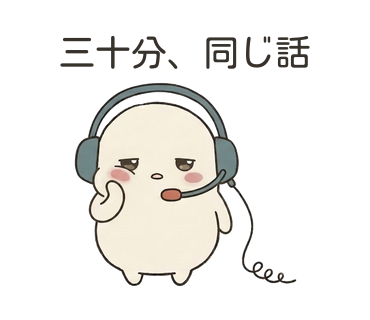
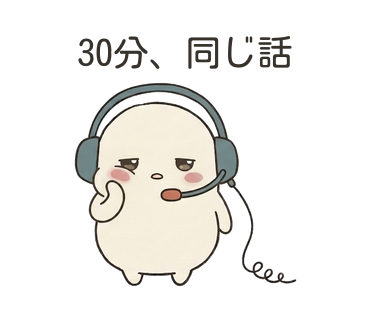
シリーズA 09番を「三十分、同じ話」から「30分、同じ話」に変更
トーク画面で一瞬で読ませる設計なので、漢数字は認識が一拍遅れる。
アラビア数字のほうが数量として即座に入る。

画像、ファイル対応表、申請一式のタグ表、キャラクター設計書のポーズ一覧を
すべて更新した。

Changed region(s): [[0.5054, 0.0938, 0.8324, 0.2188], [0.1486, 0.0938, 0.4757, 0.2188]]

diff --git a/tools/assign_tagsA.py b/tools/assign_tagsA.py
@@ -11,7 +11,7 @@ SETA=[
 ("トイレが一番静か",   ["こっそり","隠れる","しんみり","寂しい","もじもじ","ひそひそ","逃走","内緒","落ちこむ"]),
 ("上を出せ、出しました",["頼む","お願いします","任せた","承知","了解","どうぞ","はーい","断る","やれやれ"]),
 ("ガチャ切り、ありがとう",["ありがとう","感謝","助かる","安心した","どんまい","ラッキー","復活","いえいえ","どういたしまして"]),
-("三十分、同じ話",     ["面倒","だらだら","眠い","あくび","暇です","まだ？","しらける","ぽかーん","呆れる"]),
+("30分、同じ話",     ["面倒","だらだら","眠い","あくび","暇です","まだ？","しらける","ぽかーん","呆れる"]),
 ("電話、鳴らないで",   ["電話","連絡","不安","怖い","ひやひや","緊急","そわそわ","ドキドキ","心配"]),
 ("笑顔で話せ、だって", ["にっこり","てへ","えへへ","照れる","必死","一生懸命","大変","難しい","プレッシャー"]),
 ("切った瞬間また鳴る", ["がーん","あちゃー","ちーん","げっ","！？","衝撃","オーマイガー","ピンチ","早く"]),

diff --git a/gen_setA.py b/gen_setA.py
@@ -38,7 +38,7 @@ STICKERS = [
                             T("出しました", 36, gap=2)], "07.png")),
  ("ガチャ切り、ありがとう", S([T("ガチャ切り、", 30),
                               T("ありがとう", 36, TERRA, gap=2)], "08.png")),
- ("三十分、同じ話",       S([T("三十分、同じ話", 36)], "09.png")),
+ ("30分、同じ話",       S([T("30分、同じ話", 36)], "09.png")),
  ("電話、鳴らないで",     S([T("電話、鳴らないで", 34, TERRA)], "10.png")),
  ("笑顔で話せ、だって",   S([T("笑顔で話せ、", 32),
                             T("だって", 30, SLATE, gap=2, align="right")], "11.png")),
